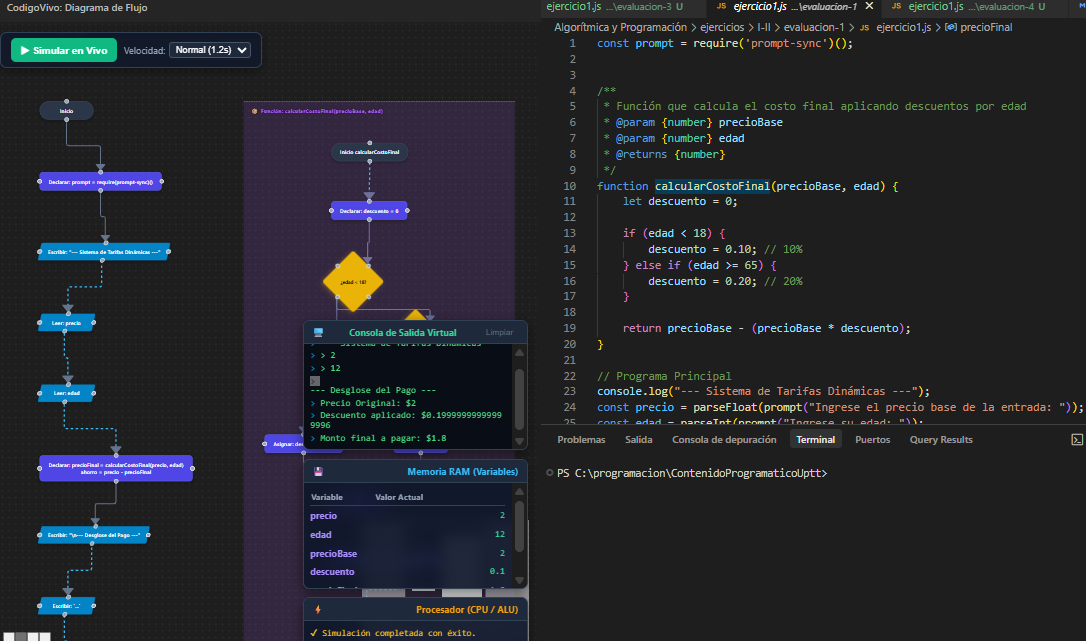
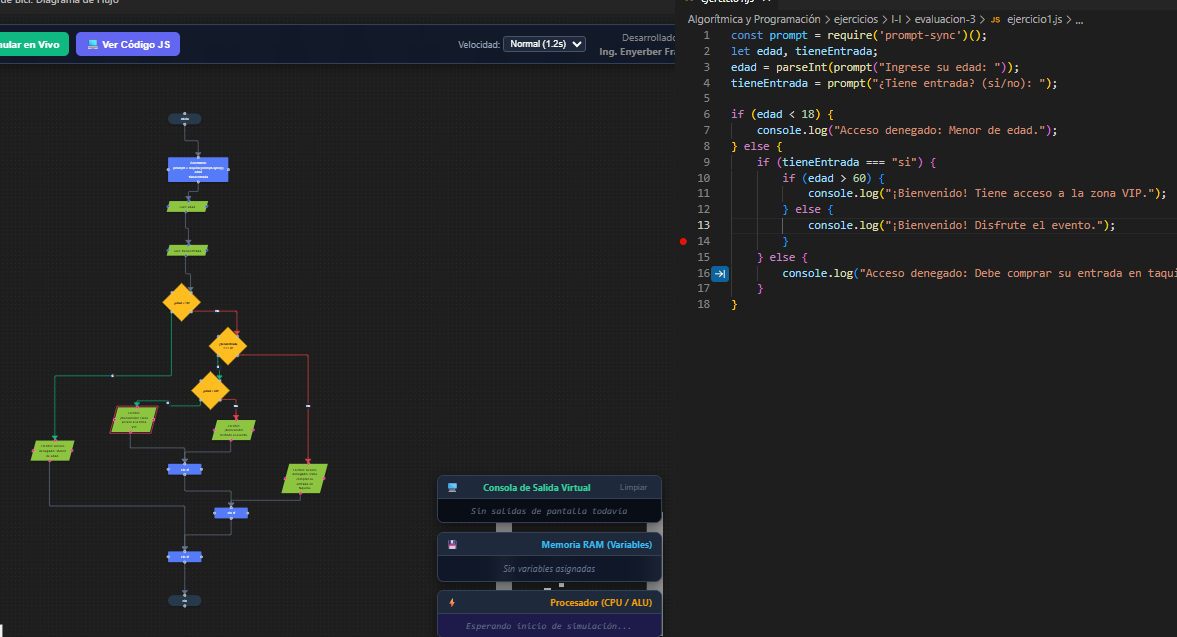
feat: add ConsolePanel, CpuPanel, and RamPanel components to visualize simulation state and update README documentation.

diff --git a/webview-ui/src/components/shared/ConsolePanel.vue b/webview-ui/src/components/shared/ConsolePanel.vue
@@ -1,11 +1,16 @@
 <template>
   <div class="hardware-box console-box">
-    <div class="box-header">
-      <span class="icon">🖥</span>
-      <strong>Consola de Salida Virtual</strong>
-      <button class="btn-clear" @click="$emit('clear')">Limpiar</button>
+    <div class="box-header" @click="isCollapsed = !isCollapsed" style="cursor: pointer; display: flex; justify-content: space-between; align-items: center;">
+      <div style="display: flex; align-items: center; gap: 8px;">
+        <span class="icon">🖥</span>
+        <strong>Consola de Salida Virtual</strong>
+      </div>
+      <div style="display: flex; align-items: center; gap: 8px;">
+        <button v-show="!isCollapsed" class="btn-clear" @click.stop="$emit('clear')">Limpiar</button>
+        <span style="font-size: 10px; color: #94a3b8;">{{ isCollapsed ? '▼' : '▲' }}</span>
+      </div>
     </div>
-    <div class="box-body console-body" ref="consoleBodyRef">
+    <div v-show="!isCollapsed" class="box-body console-body" ref="consoleBodyRef">
       <div v-if="logs.length === 0 && !showPrompt" class="empty-state">
         Sin salidas de pantalla todavía
       </div>
@@ -32,6 +37,8 @@
 
 <script setup lang="ts">
 import { ref, watch, nextTick } from 'vue';
+
+const isCollapsed = ref(false);
 
 const props = defineProps<{
   logs: string[];

diff --git a/webview-ui/src/components/shared/CpuPanel.vue b/webview-ui/src/components/shared/CpuPanel.vue
@@ -1,10 +1,15 @@
 <template>
   <div class="hardware-box cpu-box">
-    <div class="box-header">
-      <span class="icon">⚡</span>
-      <strong>Procesador (CPU / ALU)</strong>
+    <div class="box-header" @click="isCollapsed = !isCollapsed" style="cursor: pointer; display: flex; justify-content: space-between; align-items: center;">
+      <div style="display: flex; align-items: center; gap: 8px;">
+        <span class="icon">⚡</span>
+        <strong>Procesador (CPU / ALU)</strong>
+      </div>
+      <div style="display: flex; align-items: center; gap: 8px;">
+        <span style="font-size: 10px; color: #94a3b8;">{{ isCollapsed ? '▼' : '▲' }}</span>
+      </div>
     </div>
-    <div class="box-body cpu-body" ref="cpuBodyRef">
+    <div v-show="!isCollapsed" class="box-body cpu-body" ref="cpuBodyRef">
       <div v-if="logs.length === 0" class="empty-state">
         Esperando inicio de simulación...
       </div>
@@ -19,6 +24,8 @@
 
 <script setup lang="ts">
 import { ref, watch, nextTick } from 'vue';
+
+const isCollapsed = ref(false);
 
 const props = defineProps<{
   logs: string[];

diff --git a/webview-ui/src/components/shared/RamPanel.vue b/webview-ui/src/components/shared/RamPanel.vue
@@ -1,10 +1,15 @@
 <template>
   <div class="hardware-box ram-box">
-    <div class="box-header">
-      <span class="icon">💾</span>
-      <strong>Memoria RAM (Variables)</strong>
+    <div class="box-header" @click="isCollapsed = !isCollapsed" style="cursor: pointer; display: flex; justify-content: space-between; align-items: center;">
+      <div style="display: flex; align-items: center; gap: 8px;">
+        <span class="icon">💾</span>
+        <strong>Memoria RAM (Variables)</strong>
+      </div>
+      <div style="display: flex; align-items: center; gap: 8px;">
+        <span style="font-size: 10px; color: #94a3b8;">{{ isCollapsed ? '▼' : '▲' }}</span>
+      </div>
     </div>
-    <div class="box-body">
+    <div v-show="!isCollapsed" class="box-body">
       <div v-if="Object.keys(memory).length === 0" class="empty-state">
         Sin variables asignadas
       </div>
@@ -56,6 +61,8 @@
 
 <script setup lang="ts">
 import { ref } from 'vue';
+
+const isCollapsed = ref(false);
 
 defineProps<{
   memory: Record<string, any>;

diff --git a/README.md b/README.md
@@ -2,7 +2,6 @@
 
 [![Versión 0.1.0](https://img.shields.io/badge/Versi%C3%B3n-0.1.0-blue.svg)](https://github.com/ever23/RueditasDeBici.js/releases)
 
-**Desarrollado por:** Ing. Enyerber Franco
 
 **RueditasDeBici.js** es una extensión educativa para Visual Studio Code diseñada específicamente para **enseñar las bases de la programación**. Transforma tu código JavaScript en diagramas de flujo interactivos en tiempo real. 
 
@@ -18,7 +17,10 @@ Diseñada con un enfoque fuertemente académico, esta herramienta permite a los 
 *Generación en tiempo real de diagramas con condicionales y bucles.*
 
 ![Soporte para funciones y simulador en vivo](./image1.png)
-*Aislamiento visual de funciones (subprogramas) y el inspector de Memoria RAM interactivo.*
+*Aislamiento visual de funciones (subprogramas)*
+
+![Soporte para funciones y simulador en vivo](./image2.png)
+*inspector de Memoria RAM interactivo.*
 
 ## 🎯 Propósito
 
